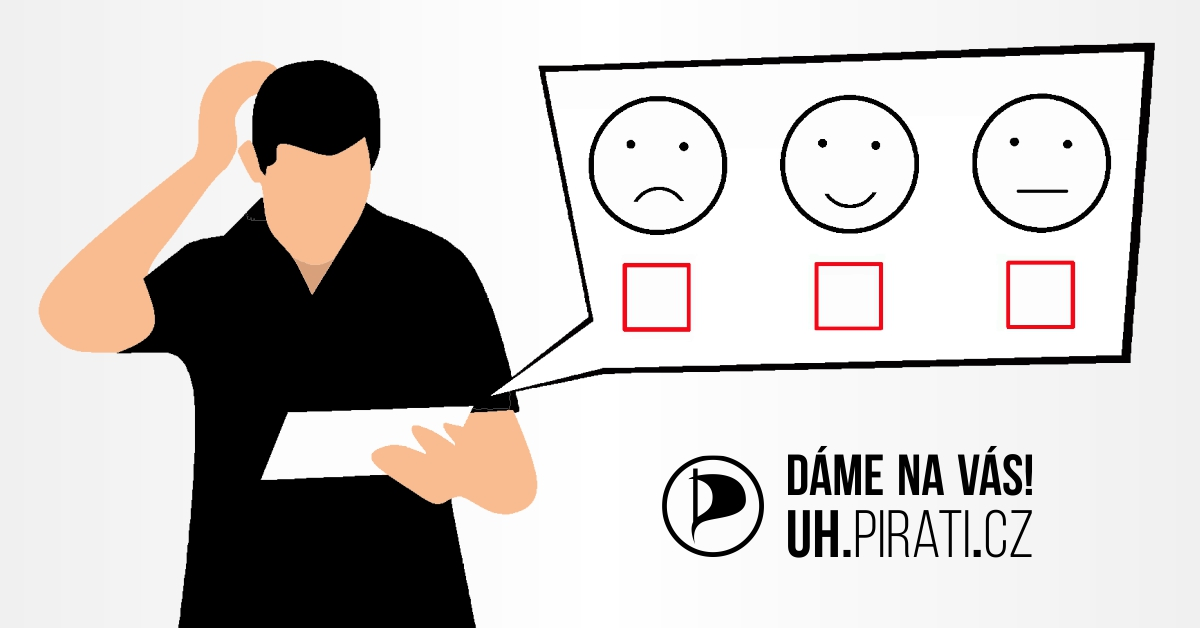
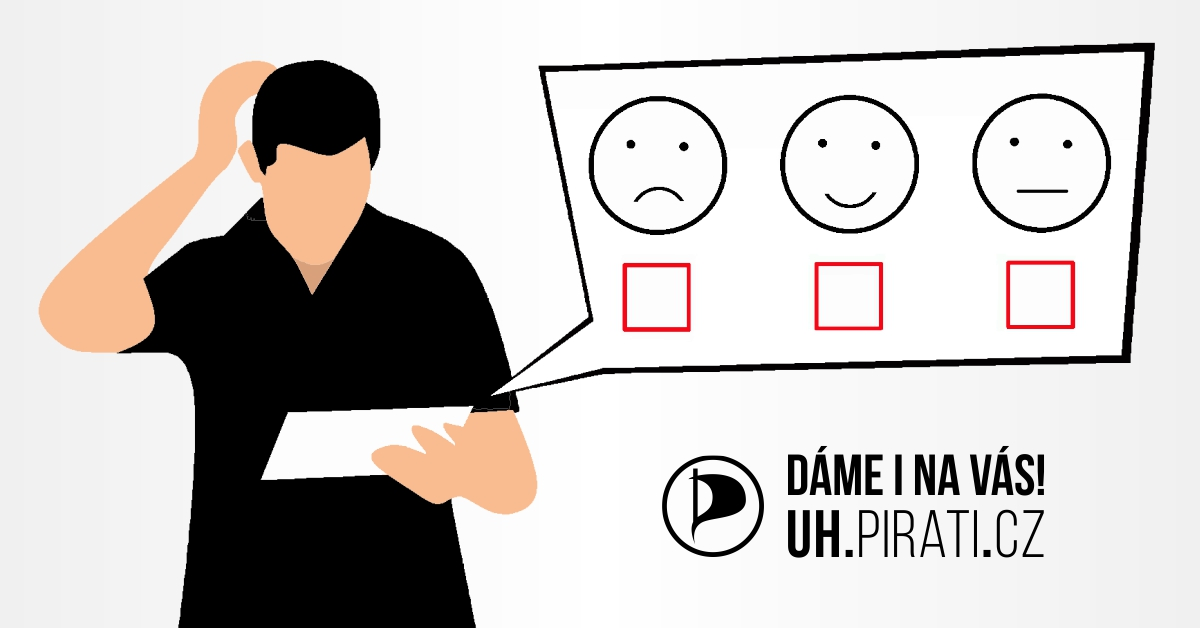
oprava fb nahledu

Changed region(s): [[0.6783, 0.6959, 0.8942, 0.9076]]

diff --git a/program/index.html b/program/index.html
@@ -2,7 +2,7 @@
 layout: page
 title: Program Pirátů pro Uherské Hradiště 2018
 rbar: ""
-ogimage: https://raw.githubusercontent.com/pirati-web/uh.pirati.cz/master/assets/img/miscellaneous/fbkandidati.jpg
+ogimage: https://raw.githubusercontent.com/pirati-web/uh.pirati.cz/master/assets/img/miscellaneous/fbprogram.jpg
 ---
 
 <meta property="og:image" content="https://www.pirati.cz/assets/img/miscellaneous/volebni-rozcestnik.png" />

diff --git a/dotaznik/index.html b/dotaznik/index.html
@@ -1,6 +1,6 @@
 ---
 layout: page
-title: Dáme i na vás!
+title: Dáme i na vás! Pirátský dotazník pro obyvatele UH
 ogimage: https://raw.githubusercontent.com/pirati-web/uh.pirati.cz/master/assets/img/miscellaneous/fbform.jpg
 ---
 
